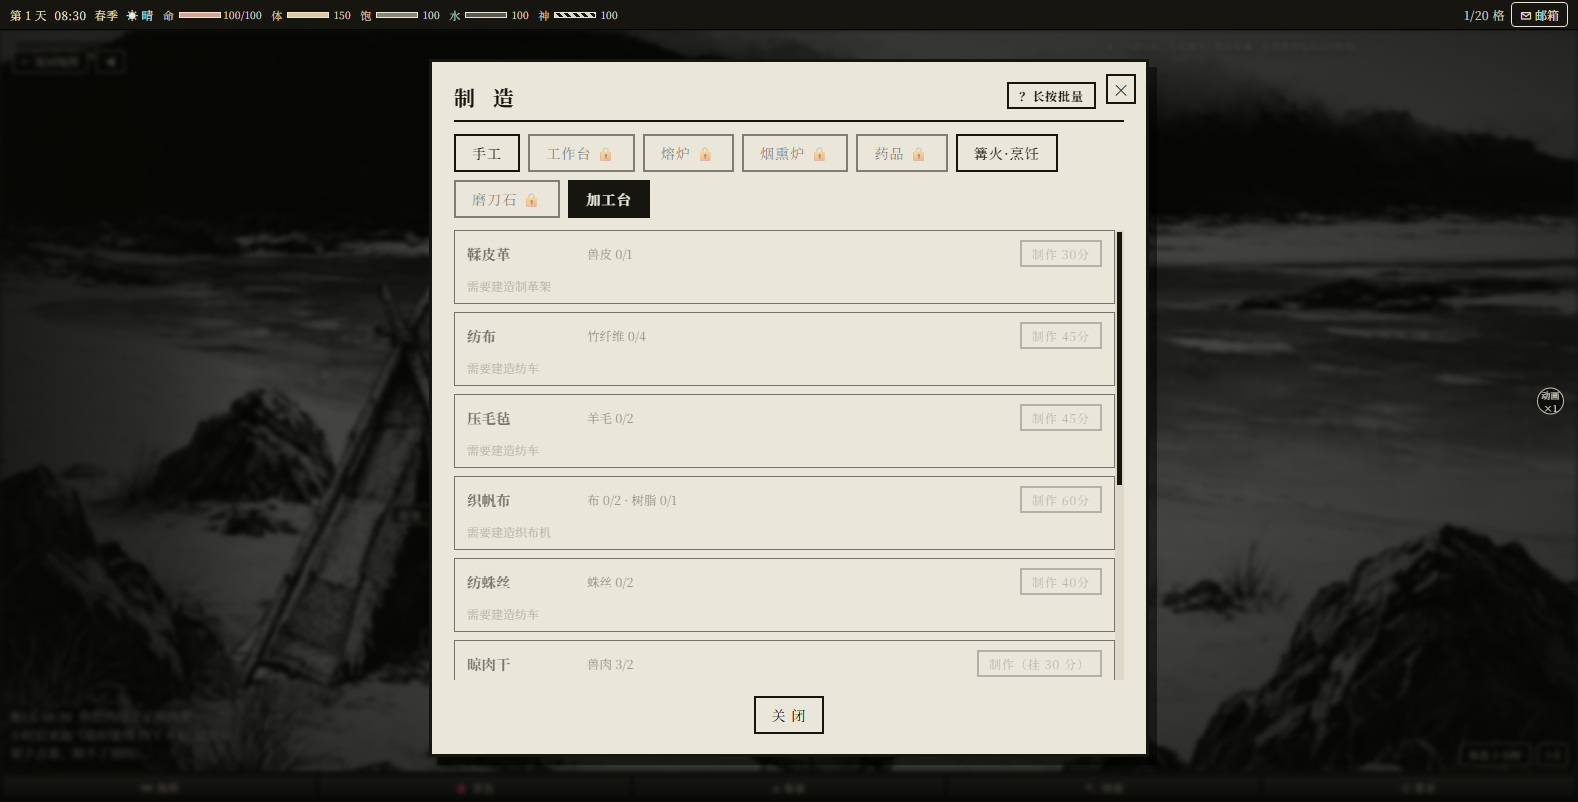
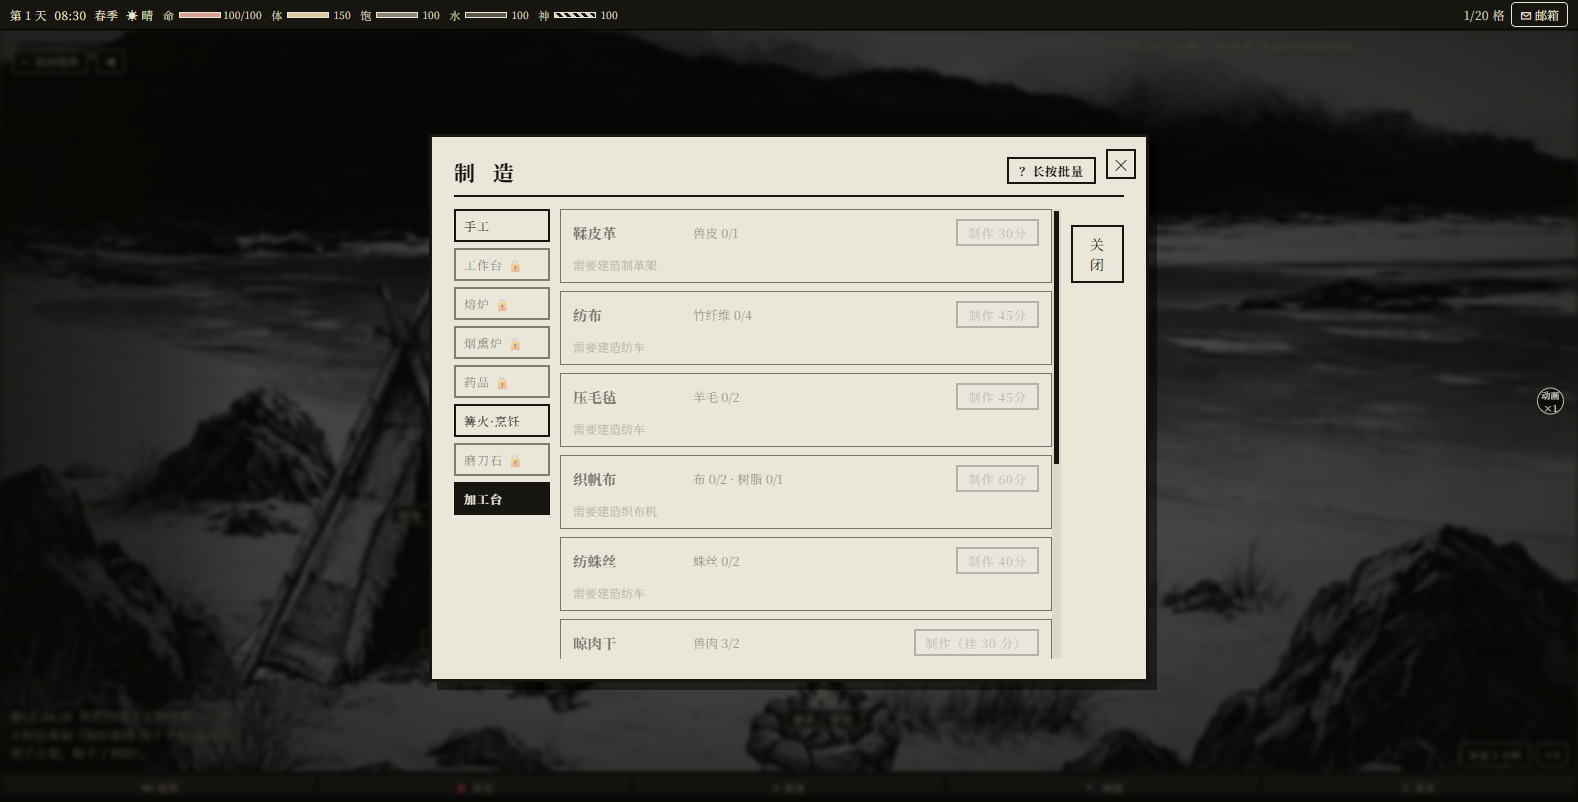
发布流程：全量自检 + v1.08 打包(200234) + v1.08 完整版更新公告(待批准)

diff --git a/孤屿遗章-游戏 - 发布/index.html b/孤屿遗章-游戏 - 发布/index.html
@@ -4,17 +4,17 @@
   <meta charset="UTF-8">
   <meta name="viewport" content="width=device-width, initial-scale=1.0, maximum-scale=1.0, user-scalable=no, viewport-fit=cover">
   <meta name="screen-orientation" content="landscape">
-  <script>window.BUILD_VER = 'v1.08-20260919-194605';</script>
+  <script>window.BUILD_VER = 'v1.08-20260919-200234';</script>
   <meta name="apple-mobile-web-app-capable" content="yes">
   <meta name="mobile-web-app-capable" content="yes">
   <title>孤屿遗章 · 黑白沉浸式文字生存</title>
-  <link rel="stylesheet" href="css/style.css?v=v1.08-20260919-194605">
+  <link rel="stylesheet" href="css/style.css?v=v1.08-20260919-200234">
 </head>
 <body>
   <div id="app"></div>
-  <script src="js/data.js?v=v1.08-20260919-194605"></script>
-  <script src="js/game.js?v=v1.08-20260919-194605"></script>
-  <script src="js/audio.js?v=v1.08-20260919-194605"></script>
-  <script src="js/ui.js?v=v1.08-20260919-194605"></script>
+  <script src="js/data.js?v=v1.08-20260919-200234"></script>
+  <script src="js/game.js?v=v1.08-20260919-200234"></script>
+  <script src="js/audio.js?v=v1.08-20260919-200234"></script>
+  <script src="js/ui.js?v=v1.08-20260919-200234"></script>
 </body>
 </html>

diff --git a/开发工具/检查/_debug_cookie_save.js b/开发工具/检查/_debug_cookie_save.js
@@ -41,7 +41,9 @@ async function main() {
     const S = Game.S(); S.tut = null; S.day = 7; S.inv.branch = 42; Game.save();
     const m = (() => { try { return JSON.parse(localStorage.getItem('guyuyizhang_meta')); } catch (e) { return {}; } })();
     // ⚠ 魂点要走正式 API 写（会同时写 localStorage + cookie），直接改 localStorage 不会更新 cookie
-    const soulWant = (Game.metaState().soul || 0) + 30;
+    // ⚠ 别写死 +30：签到奖励是 SIGN_SOUL（作者 2026-09-19 改成 10 了），这里从接口读
+    const st0 = Game.dailySignState();
+    const soulWant = (Game.metaState().soul || 0) + (st0.soul || 0);
     Game.dailySign();
     window.__soulWant = soulWant;
     return { day: S.day, soulWant: soulWant, saveCookie: (document.cookie.indexOf('guyu_save=') >= 0), metaCookie: (document.cookie.indexOf('guyu_meta=') >= 0), cookieLen: document.cookie.length };

diff --git a/文档/更新公告/孤屿遗章_v1.08_更新公告_FULL.md b/文档/更新公告/孤屿遗章_v1.08_更新公告_FULL.md
@@ -1,0 +1,67 @@
+# 孤屿遗章 v1.08 更新公告（完整版 · 待作者批准）
+
+> 状态：**待批准**。批准后我会用这份替换 `js/data.js` 里 `PATCH_NOTES` 的 v1.08 条目（approved:true）并重打包，
+> 玩家进游戏就会在邮箱里收到；这份也是发给 TapTap 官方公告的稿子。
+> 对比：游戏内现有的是 9-18 那版（只写了技能树/存档/分镜/结局/神弓/鸡舍/界面），下面这份补上了 9-19 的全部改动。
+
+---
+
+【技能树（大更新）】
+· 技能从"点一下升一级"改成技能树：点技能卡片展开整棵树——中间一条主干（Lv1→7），专项技能挂在两侧，互斥的一对分居左右、中间一条红虚线。
+· 主干每升一级，从三个方向里选一个：采集是「产出 +7% / 耗时 -7% / 体力 -7%」，制造是「耗时 -7% / 7% 概率返还材料 / 7% 概率多产 1 件」，战斗是「攻击 +1 / 防御 +0.5 / 暴击率 +5%」。同一个方向可以重复选，效果叠加。
+· 升级花多少经验，每个按钮上都写着；经验不够时会写明"现有多少、还差多少"，不再让你猜为什么点不动。
+· **升级消耗按树区分**：采集树的经验消耗是 2 倍、制造树是 3 倍、战斗树不变。每次干活拿到的经验还是老样子（采集/制造各 +1，打赢小怪 +1 / 普通 +2 / 精英 +3、首领 +15）。
+· 学错了能忘：**遗忘只能从最末端往外剥**（专项和主干都一样），返还一半经验——想换流派就一层层退回去。主干那一级如果正撑着某个专项，会先提示你把专项忘掉。
+· 每个专项最多 2 级（原来 2~4 级），一级二级的数值照旧：阔刃横扫（双手重武器，1.0→1.2 倍、CD 18→16 秒）→ 处决（残血 +50%）；嗜血狂刀（**双持两把匕首**，伤害的 30/40/50% 回血）→ 复仇；盾墙 ⇄ 疾风连击；狂战 ⇄ 铁壁；弓术 / 枪械精通。采集：伐木专精 ⇄ 自然感知、精细采集 ⇄ 粗放采集。制造：修补匠（25/50% 修补不耗材料）、流水线 ⇄ 精工细作。
+· **流水线 / 精工细作只对"有耐久的成品"生效**：武器、工具、防具才吃加成；烤肉、药剂、木板这些不再被涨价或减料（以前精工细作连烧木炭都加材料，纯亏）。
+· 技能经验不跨局，但《历代遗章》新增「采集 / 制造 / 战斗心得」：买了以后每局开局直接送 30 / 60 / 100 点对应经验。
+· ⚠ 老玩家注意：旧技能等级会折算成经验返还（按新曲线升到同一等级所需经验的 2 倍），等级回到 0 级让你自己重新加点——折算给得比原来多，不会吃亏；读档时会有一条提示。
+
+【结局】
+· 达成结局后会弹出「结局达成」，可以直接「观看结算画面」，也可以先继续玩——右下角会留一个「结算 · 结局「XX」」按钮随时回看。
+· **一个存档只能结算一个结局**：结算前会再确认一次；结算之后这一局就不能再结算别的结局了（其他结局仍然可以达成）。
+· 死亡本身不算结局、也不锁定（只死过的存档照样能结算）；但**复活不会解除已经结算的定局**，想换结局收尾只能开新的一局。同一个结局不会重复给魂点。
+· 材料齐了去山顶会有指路；条件不满足（瞭望台不够 / 雷暴 / 保暖不够 / 体力不够）时，点大地图箭头会当场在屏幕中央说清原因。
+
+【存档更稳了 · 新增救援】
+· 存档同时写「本地存储 + cookie」两份，读取时取时间最新的那一份——平台清缓存只清掉一份也能恢复回来。
+· **主存档万一损坏，会自动从滚动备份接着玩**（以前这种情况下会存不进进度，只能手动"用本页覆盖"）。
+· **误开新档不用慌**：开新游戏前会自动把上一局留一份，菜单 →「备份 · 读档」→「🛟 救援 · 找回被覆盖的存档」→ 扫描本机存档 → 恢复这一份。
+· 修了一个真 bug：**休息（坐下歇 1~3 小时）加的体力以前不会立刻存盘**，跨过午夜时还会被每日结算的存档覆盖掉——读档回来体力就白歇了。现在休息立刻落盘。
+· 老规矩：隔一段时间去「备份 · 读档 → 导出存档码」复制一串存好，这是最稳的保命手段。
+
+【制造 & 数值】
+· **晾肉架**：一次挂肉×2，晾满 20 小时得 肉干×4（1 份肉出 2 条；比烟熏炉省盐省柴但得多等）。长按不会弹批量条，只会提醒"一次只能挂一批"。
+· **超级大蛋**改成消耗 12 颗蛋。
+· **批量制造总耗时超过 5 小时会先弹提醒**：这段时间饱食和水分一直在掉，已经有人做到把自己做没了——先吃点东西或分几次做。
+· 磨刀石三个功能（磨刀 / 修补 / 命名）都写明了**只作用于当前主手武器**。
+· **食之包**：自动进食饮水不再无脑吃背包第一件（以前常常吃掉超级大蛋）。现在默认"挑最省的那份"、口渴先喝正经饮品；「装备 → 神物」页里还能指定**优先吃哪一件 / 喝哪一件**。
+· 深海售卖机（遗失的交易机）每天上架神物的概率从 100% 改为 **30%**；送神物的奇遇（洞穴神龛、神秘货郎）出现概率**减半**。
+
+【战斗】
+· **装备弓 / 手枪不再"一进战斗就自动开火"**：改成**第一轮你先出手**（先手 = 抢在敌人前面，射/跑/防/用道具全由你点）。神弓的「每场第一次命中必会心」也随之落在**你自己打出的第一枪**上，不再被自动几箭抢掉。
+· 嗜血狂刀改成**只对双持两把匕首生效**（以前任何双持单手都吃吸血）。
+· 赶路遇袭不能再关闭了；山洞里一直可能遇到洞穴熊（洞外拦路的熊仍是第 30 天起）。
+
+【限定 · 神弓】
+· 名字里的日期去掉了，就叫「限定 · 神弓」（活动时间写在配方说明里）。
+· 耐久 120；**用坏不会消失**，只自动卸下，回营地用磨刀石（秘银锭×1）修好接着用；制造列表里它固定在最下面一格。
+
+【每日签到 & 设置】
+· 每日签到：**魂点 ×10 + 备份点 ×1**（每天一次，账号级）。
+· 设置面板重排：最上面是「图鉴 · 每日签到」；音乐 / 音效 / 环境音并成一行；日志栏的显示方式与宽度并成一行；新增「**关闭当前目标**」开关（嫌营地顶部那行提示占地方可以关掉）。
+· **皮肤包要花魂点解锁**：「深海琥珀」「彩绘卡面」各 50 魂点，账号级永久，解锁后随时切换。
+· 云存档说明精简成一句「已同步 · 最近 HH:MM」，不再长篇铺开。
+· **制造面板**的工位分类（手工 / 工作台 / 熔炉 / 烟熏炉 / 药品 / 篝火·烹饪 / 磨刀石 / 加工台）从左改成**左侧竖栏**，右边整块留给配方列表，看着清爽不少；手机竖屏会自动变回横排。
+
+【新存档开头有分镜了】
+· 开新存档时会先播 5 格黑白木刻分镜：听说亚克兰蒂斯的传说 → 出海 → 特大风暴 → 沉没 → 醒来在荒岛。点画面 / 空格翻页，也能「跳过」，只在开新存档时播一次。
+
+【牧场 & 其他】
+· 鸡舍可以扩建两次：3 → 4 只（木板×8、铁钉×10、茅草×20）、4 → 5 只（木板×16、铁钉×20、茅草×40、铁件×3）。
+· 主界面按钮缩小约 1/3，图鉴与每日签到收进「设置」面板；选角色界面改成小头像 + 说明，一屏能看完所有身份。
+· 弹窗刚打开的头 0.35 秒不接收点击（防止"单击直接睡俩小时"这种误触）。
+
+喜欢的话麻烦给个好评吧——个人作者一个人在做，这对我真的很重要！
+
+有任何问题欢迎进群反馈：QQ 群 1014679931。
